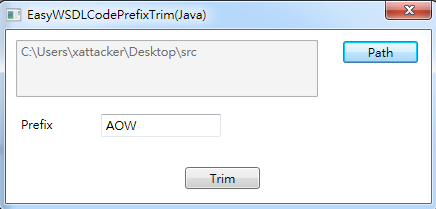
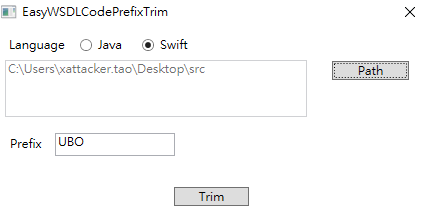
add language Swift supported

Changed region(s): [[0.0, 0.0, 1.0, 1.0], [0.1224, 0.689, 0.4282, 0.7177], [0.4282, 0.7751, 0.5812, 0.8038]]

diff --git a/EasyWSDLPrefixTrim/MainWindow.xaml b/EasyWSDLPrefixTrim/MainWindow.xaml
@@ -5,13 +5,16 @@
         xmlns:mc="http://schemas.openxmlformats.org/markup-compatibility/2006"
         xmlns:local="clr-namespace:EasyWSDLPrefixTrim"
         mc:Ignorable="d"
-        Title="EasyWSDLCodePrefixTrim(Java)" Height="201" Width="431" ResizeMode="NoResize" WindowStartupLocation="CenterScreen">
+        Title="EasyWSDLCodePrefixTrim" Height="225.604" Width="433.087" ResizeMode="NoResize" WindowStartupLocation="CenterScreen">
     <Grid>
-        <Button x:Name="pathButton" Content="Path" Margin="337,11,13,0" VerticalAlignment="Top" RenderTransformOrigin="0.76,-0.045" Click="Button_Click"/>
-        <TextBox x:Name="pathTextBox" HorizontalAlignment="Left" Height="57" Margin="10,10,0,0" TextWrapping="Wrap" VerticalAlignment="Top" Width="302" IsEnabled="False" Focusable="False"/>
-        <TextBox x:Name="prefixTextBox" HorizontalAlignment="Left" Height="23" Margin="95,84,0,0" TextWrapping="Wrap" VerticalAlignment="Top" Width="120"/>
-        <Label Content="Prefix" HorizontalAlignment="Left" Margin="10,81,0,0" VerticalAlignment="Top" Width="62"/>
-        <Button Content="Trim" HorizontalAlignment="Left" Margin="179,137,0,0" VerticalAlignment="Top" Width="75" Click="Button_Click_1" RenderTransformOrigin="0.547,0.273"/>
+        <Button x:Name="pathButton" Content="Path" Margin="334,36,16,0" VerticalAlignment="Top" RenderTransformOrigin="0.76,-0.045" Click="Button_Click"/>
+        <TextBox x:Name="pathTextBox" HorizontalAlignment="Left" Height="57" Margin="7,35,0,0" TextWrapping="Wrap" VerticalAlignment="Top" Width="302" IsEnabled="False" Focusable="False"/>
+        <TextBox x:Name="prefixTextBox" HorizontalAlignment="Left" Height="23" Margin="57,108,0,0" TextWrapping="Wrap" VerticalAlignment="Top" Width="120"/>
+        <Label Content="Prefix" HorizontalAlignment="Left" Margin="7,106,0,0" VerticalAlignment="Top" Width="62"/>
+        <Button Content="Trim" HorizontalAlignment="Left" Margin="176,162,0,0" VerticalAlignment="Top" Width="75" Click="Button_Click_1" RenderTransformOrigin="0.547,0.273"/>
+        <RadioButton x:Name="swiftRadioButton" Content="Swift" HorizontalAlignment="Left" Margin="143,13,0,0" VerticalAlignment="Top" GroupName="language" />
+        <RadioButton x:Name="javaRadioButton" Content="Java" HorizontalAlignment="Left" Margin="81,13,0,0" VerticalAlignment="Top" GroupName="language"/>
+        <Label Content="Language" HorizontalAlignment="Left" Margin="6,7,0,0" VerticalAlignment="Top"/>
 
     </Grid>
 </Window>

diff --git a/EasyWSDLPrefixTrim/MainWindow.xaml.cs b/EasyWSDLPrefixTrim/MainWindow.xaml.cs
@@ -15,22 +15,30 @@ namespace EasyWSDLPrefixTrim
         public MainWindow()
         {
             InitializeComponent();
+        }
 
-            string path = this.GetAppPath();
-            if (this.SetTrimPrefix(path))
-            {
-                this.pathTextBox.Text = path;
-            }
+        private string GetSelectedLanguage()
+        {
+            return this.javaRadioButton.IsChecked.Value ? "java" : this.swiftRadioButton.IsChecked.Value ? "swift" : null;
         }
 
         private void Button_Click(object sender, RoutedEventArgs e)
         {
+            string lang = this.GetSelectedLanguage();
+            if (string.IsNullOrEmpty(lang))
+            {
+                this.ShowMessage("請選擇程式語言!!");
+
+                return;
+            }
+
+
             // 按下 path
             this.OpenFolderDialog
             (
             (string path) =>
             {
-                if (this.SetTrimPrefix(path))
+                if (this.SetTrimPrefix(path, lang))
                 {
                     this.pathTextBox.Text = path;
                 }
@@ -45,6 +53,14 @@ namespace EasyWSDLPrefixTrim
         private void Button_Click_1(object sender, RoutedEventArgs e)
         {
             // 按下 trim 
+            string lang = this.GetSelectedLanguage();
+            if (string.IsNullOrEmpty(lang))
+            {
+                this.ShowMessage("請選擇程式語言!!");
+
+                return;
+            }
+
             if (string.IsNullOrEmpty(this.pathTextBox.Text) || string.IsNullOrEmpty(this.prefixTextBox.Text))
             {
                 this.ShowMessage("路徑與Prefix不可為空!!");
@@ -69,16 +85,16 @@ namespace EasyWSDLPrefixTrim
                                     );
             if (result == System.Windows.Forms.DialogResult.Yes)
             {
-                this.TrimCode(path, this.prefixTextBox.Text.Trim());
+                this.TrimCode(path, this.prefixTextBox.Text.Trim(), lang);
             }
         }
 
-        private bool SetTrimPrefix(string path)
+        private bool SetTrimPrefix(string path, string lang)
         {
             bool succeed = true;
 
             DirectoryInfo dir = new DirectoryInfo(path);
-            List<FileInfo> files = dir.GetFilesByExtensions(".java");
+            List<FileInfo> files = dir.GetFilesByExtensions("." + lang);
             if (files.Count > 0)
             {
                 FileInfo file = files[0];
@@ -92,12 +108,12 @@ namespace EasyWSDLPrefixTrim
             return succeed;
         }
 
-        private void TrimCode(string path, string prefix)
+        private void TrimCode(string path, string prefix, string lang)
         {
             try
             {
                 DirectoryInfo dir = new DirectoryInfo(path);
-                List<FileInfo> files = dir.GetFilesByExtensions(".java");
+                List<FileInfo> files = dir.GetFilesByExtensions("." + lang);
                 List<FileInfo> deleted = new List<FileInfo>();
 
                 prefix = prefix.ToUpper();
@@ -107,13 +123,32 @@ namespace EasyWSDLPrefixTrim
                     if (file.Name.StartsWith(prefix))
                     {
                         string new_path = System.IO.Path.Combine(file.DirectoryName, file.Name.Remove(0, prefix.Length));
-
                         string content = File.ReadAllText(file.FullName);
-                        content = content.Replace(" " + prefix, " ");
-                        content = content.Replace("(" + prefix, "(");
-                        content = content.Replace(")" + prefix, ")");
-                        content = content.Replace("," + prefix, ",");
-                        content = content.Replace("=" + prefix, "=");
+
+                        switch (lang)
+                        {
+                            case "java":
+                                {
+                                    content = content.Replace(" " + prefix, " ");
+                                    content = content.Replace("(" + prefix, "(");
+                                    content = content.Replace(")" + prefix, ")");
+                                    content = content.Replace("," + prefix, ",");
+                                    content = content.Replace("=" + prefix, "=");
+                                }
+                                break;
+
+                            case "swift":
+                                {
+                                    content = content.Replace(" " + prefix, " ");
+                                    content = content.Replace(":" + prefix, ":");
+                                    content = content.Replace("(" + prefix, "(");
+                                    content = content.Replace("," + prefix, ",");
+                                    content = content.Replace("!" + prefix, "!");
+                                    content = content.Replace("=" + prefix, "=");
+                                }
+                                break;
+                        }
+
                         File.WriteAllText(new_path, content);
 
                         deleted.Add(file);

diff --git a/EasyWSDLPrefixTrim/Properties/AssemblyInfo.cs b/EasyWSDLPrefixTrim/Properties/AssemblyInfo.cs
@@ -51,5 +51,5 @@ using System.Windows;
 // 您可以指定所有的值，或將組建編號或修訂編號設為預設值
 // 指定為預設值: 
 // [assembly: AssemblyVersion("1.0.*")]
-[assembly: AssemblyVersion("1.1.0.0")]
-[assembly: AssemblyFileVersion("1.1.0.0")]
+[assembly: AssemblyVersion("1.2.0.0")]
+[assembly: AssemblyFileVersion("1.2.0.0")]
